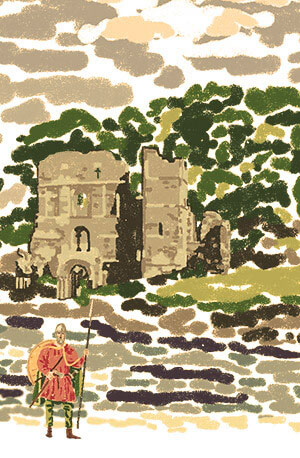
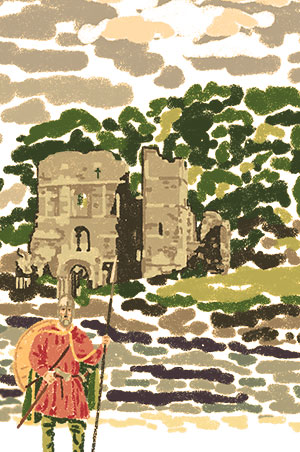
Aamazon books feedback

diff --git a/preview/Amazon_Book_2025/History/300x600/main.js b/preview/Amazon_Book_2025/History/300x600/main.js
@@ -35,7 +35,7 @@ function getAnimation(){
     rolloverTL.to("#spaceWrapper", 0.5, {clipPath:"polygon(-89% 0%, 160% 0%, 33% 75%)", repeat:1, yoyo:true, ease:Sine.easeInOut}, "start");
     rolloverTL.to("#vikingWrapper", 1, {x:5, y:2, repeat:1, yoyo:true, ease:Sine.easeInOut}, "start");
     rolloverTL.fromTo("#spear9", 2,{x:-100}, {x:300, rotation:50, ease:Sine.easeInOut}, "start");
-    rolloverTL.fromTo("#spear10", 3, {x:-300, y:10, rotation:-10}, {x:400, y:80, rotation:10, ease:Sine.easeInOut}, "start");
+    rolloverTL.fromTo("#spear10", 3, {x:-300, y:10}, {x:400, y:80, rotation:60, ease:Sine.easeInOut}, "start");
 
 
     masterTL = gsap.timeline({repeat:2});
@@ -54,8 +54,8 @@ function getAnimation(){
     masterTL.to("#castleFire2", 2,{rotation:5, repeat:3, yoyo:true, ease:Sine.easeInOut}, "start+=1.9");
     
     masterTL.from("#castleFire4", 0.7, {scale:0, ease:Sine.easeOut}, "start+=1");
-    masterTL.to("#castleFire4", 2,{scaleX:1.2, scaleY:0.8, repeat:3, yoyo:true, ease:Sine.easeInOut}, "start+=1.9");
-    masterTL.to("#castleFire4", 1.6,{rotation:20, repeat:4, yoyo:true, ease:Sine.easeInOut}, "start+=1.9");
+    masterTL.to("#castleFire4", 2,{scaleX:1.2, scaleY:0.8, repeat:3, yoyo:true, ease:Sine.easeInOut}, "start+=1.7");
+    masterTL.to("#castleFire4", 1.6,{rotation:20, repeat:3, yoyo:true, ease:Sine.easeInOut}, "start+=1.7");
 
     masterTL.from("#castleFire1", 1,{scale:0, ease:Sine.easeOut}, "start+=2");
     masterTL.to("#castleFire1", 0.625,{scaleX:0.9, scaleY:1.2, repeat:7, yoyo:true, ease:Sine.easeInOut}, "start+=3");
@@ -71,13 +71,13 @@ function getAnimation(){
 
     masterTL.fromTo("#spear1", 2,{x:-100}, {x:300, rotation:50, ease:Sine.easeInOut}, "start+=1");
     masterTL.fromTo("#spear2", 2,{x:-100, y:100}, {x:300, rotation:50, ease:Sine.easeInOut}, "start+=5");
-    masterTL.fromTo("#spear3", 2,{x:-100, y:50}, {x:300, rotation:50, ease:Sine.easeInOut}, "start+=6");
-    masterTL.fromTo("#spear4", 2,{x:300, y:50, scaleX:-1}, {x:-150, rotation:-50, ease:Sine.easeInOut}, "start+=2");
-    masterTL.fromTo("#spear5", 2,{x:300, y:10, scaleX:-1}, {x:-150, rotation:-50, ease:Sine.easeInOut}, "start+=7");
+    masterTL.fromTo("#spear3", 2,{x:-100, y:50}, {x:300, rotation:52, ease:Sine.easeInOut}, "start+=6");
+    masterTL.fromTo("#spear4", 2,{x:-100, y:40}, {x:300, rotation:45, ease:Sine.easeInOut}, "start+=2");
+    masterTL.fromTo("#spear5", 2,{x:-100, y:10}, {x:300, rotation:55, ease:Sine.easeInOut}, "start+=7");
     
-    masterTL.fromTo("#spear6", 3, {x:-300, y:10, rotation:-10}, {x:400, y:80, rotation:10, ease:Sine.easeInOut}, "start+=1");
-    masterTL.fromTo("#spear7", 3, {x:400, y:40, rotation:10, scaleX:-1}, {x:-300, y:100, ease:Sine.easeInOut}, "start+=3.7");
-    masterTL.fromTo("#spear8", 3, {x:-300, y:50, rotation:-30}, {x:400, y:0, rotation:10, ease:Sine.easeInOut}, "start+=7");
+    masterTL.fromTo("#spear6", 2, {x:-100, y:10}, {x:300, y:20, rotation:60, ease:Sine.easeInOut}, "start+=1.5");
+    masterTL.fromTo("#spear7", 2, {x:-100, y:40}, {x:300, y:40, rotation:80, ease:Sine.easeInOut}, "start+=3.7");
+    masterTL.fromTo("#spear8", 2, {x:-100, y:50}, {x:300, y:0, rotation:30, ease:Sine.easeInOut}, "start+=7");
     
     
     masterTL.to("#banner", 0.5, {}, 9.5);
@@ -92,10 +92,10 @@ function animateViking() {
 
     tl.add('start');
     tl.from("#vikingWrapper", 9, {x:100, ease:Power0.easeNone}, "start");
-    tl.from("#shield", 1.5, {x:-50, y:-20, yoyo:true, repeat:5, ease:Sine.easeInOut}, "start");
-    tl.from("#vikingWrapper", 1.5, {y:10, yoyo:true, repeat:5, ease:Sine.easeInOut}, "start");
+    tl.from("#shield", 1.8, {x:-50, y:-20, yoyo:true, repeat:4, ease:Sine.easeInOut}, "start");
+    tl.from("#vikingWrapper", 1.8, {y:10, yoyo:true, repeat:4, ease:Sine.easeInOut}, "start");
     
-    tl.to("#vikingFire", 1.5, {rotation:12, scaleX:1.2, scaleY:0.9, yoyo:true, repeat:5, ease:Sine.easeInOut}, "start");
+    tl.to("#vikingFire", 1.8, {rotation:12, scaleX:1.2, scaleY:0.9, yoyo:true, repeat:4, ease:Sine.easeInOut}, "start");
 
     return tl;
 }
@@ -104,7 +104,7 @@ function getMousePos() {
     document.querySelector("#mainExit").addEventListener("mousemove", function (e) {
         var xPos = e.clientX/40;
         var yPos = e.clientY/60;
-        gsap.to("#shield", 0.1, {y:yPos-20, x:xPos-50, ease:Sine.easeInOut});
+        gsap.to("#shield", 0.1, {y:yPos, x:xPos, ease:Sine.easeInOut});
         
     });
 }

diff --git a/preview/Amazon_Book_2025/Horror/300x600/main.js b/preview/Amazon_Book_2025/Horror/300x600/main.js
@@ -37,9 +37,9 @@ function getAnimation(){
     rolloverTL.to("#monsterWrapper", 1, {y:3, x:10, repeat:1, yoyo:true, ease:Power1.easeInOut}, "start");
     rolloverTL.to("#arm1", 1, {rotation:-20, yoyo:true, repeat:1, ease:Power2.easeInOut}, "start");
     rolloverTL.to("#arm2", 1, {rotation:40, yoyo:true, repeat:1, ease:Sine.easeInOut}, "start");
-    rolloverTL.to("#skeleton", 0.75, {rotation:-10, yoyo:true, repeat:1, ease:Power1.easeInOut}, "start");
-    rolloverTL.to("#gremlin", 0.9, {x:-10, yoyo:true, repeat:1, ease:"bac1.inOut(1.4)"}, "start");
-    rolloverTL.to("#gremlin", 0.18, {y:-2, repeat:9, yoyo:true, ease:Sine.easeInOut}, "start");
+    rolloverTL.to("#skeleton", 0.75, {rotation:-5, yoyo:true, repeat:1, ease:Power1.easeInOut}, "start");
+    rolloverTL.to("#gremlin", 0.9, {x:-5, yoyo:true, repeat:1, ease:"bac1.inOut(1.4)"}, "start");
+    // rolloverTL.to("#gremlin", 0.18, {y:-2, repeat:9, yoyo:true, ease:Sine.easeInOut}, "start");
 
 
     masterTL = gsap.timeline({repeat:2});
@@ -51,12 +51,12 @@ function getAnimation(){
     masterTL.from("#copy", 0.5, {opacity:0, ease:Sine.easeOut}, "start");
     masterTL.from("#spaceWrapper", 2, {clipPath:"polygon(30% 0%, 30% 0%, 33% 75%)", ease:Sine.easeInOut}, "start+=0.5");
     masterTL.from("#gremlin", 0.75, {y:100, ease:"back.out(1.4)"}, "start+=1");
-    masterTL.to("#gremlin", 1, {x:20, ease:"bac1.inOut(1.4)"}, "start+=1.75");
-    masterTL.to("#gremlin", 0.16666666666, {y:-2, repeat:5, yoyo:true, ease:Sine.easeInOut}, "start+=1.75");
-    masterTL.to("#gremlin", 2, {x:-30, ease:"back.inOut(1.4)"}, "start+=2.75");
-    masterTL.to("#gremlin", 0.16666666666, {y:-1, repeat:11, yoyo:true, ease:Sine.easeInOut}, "start+=2.75");
-    masterTL.to("#gremlin", 1, {x:0, ease:"back.inOut(1.4)"}, "start+=4.75");
-    masterTL.to("#gremlin", 0.16666666666, {y:-1, repeat:5, yoyo:true, ease:Sine.easeInOut}, "start+=4.75");
+    masterTL.to("#gremlin", 2, {x:10, ease:"bac1.inOut(1.4)"}, "start+=1.75");
+    // masterTL.to("#gremlin", 0.16666666666, {y:-2, repeat:5, yoyo:true, ease:Sine.easeInOut}, "start+=1.75");
+    masterTL.to("#gremlin", 4, {x:-10, y:5, ease:"back.inOut(1.4)"}, "start+=3.75");
+    // masterTL.to("#gremlin", 0.16666666666, {y:-1, repeat:11, yoyo:true, ease:Sine.easeInOut}, "start+=2.75");
+    masterTL.to("#gremlin", 2, {x:0, y:0, ease:"back.inOut(1.4)"}, "start+=7.75");
+    // masterTL.to("#gremlin", 0.16666666666, {y:-1, repeat:5, yoyo:true, ease:Sine.easeInOut}, "start+=4.75");
     masterTL.add(skeletonTL, "start+=2");
     
     masterTL.add(monsterTL, "start+=2.5");
@@ -70,7 +70,7 @@ function animateSkeleton() {
     var tl = gsap.timeline({repeat:1});
 
     tl.add('start');
-    tl.to("#skeleton", 1.9, {rotation:-20, ease:Power1.easeInOut}, "start");
+    tl.to("#skeleton", 1.9, {rotation:-10, ease:Power1.easeInOut}, "start");
     tl.to("#skeleton", 1.9, {rotation:0, ease:Power1.easeInOut}, "start+=1.9");
 
     return tl;

diff --git a/preview/Amazon_Book_2025/Crime/300x600/main.js b/preview/Amazon_Book_2025/Crime/300x600/main.js
@@ -44,8 +44,6 @@ function getAnimation(){
     masterTL.add("start");
     masterTL.from("#copy", 0.5, {opacity:0, ease:Sine.easeOut}, "start");
     masterTL.from("#spaceWrapper", 2, {clipPath:"polygon(30% 0%, 30% 0%, 31% 75%)", ease:Sine.easeInOut}, "start+=0.5");
-    // masterTL.from("#detective", 0.5, {opacity:0, ease:Sine.easeOut}, "start+=1");
-    // masterTL.from("#detective", 1.5, {scale:0.5, x:-60, ease:Sine.easeOut}, "start+=1");
     
     masterTL.add("heli", "-=1.3");
     masterTL.from("#heliRotor", 0.5, {rotation:380, repeat:13, ease:Power0.easeNone}, "heli");
@@ -56,14 +54,16 @@ function getAnimation(){
     masterTL.to("#heliLight", 2, {rotation:70, ease:Sine.easeInOut}, "heli+=3");
     masterTL.from("#runners", 2, {opacity:0, x:30, ease:Sine.easeInOut}, "heli+=3");
     masterTL.to("#heliLight", 2.6, {rotation:0, ease:Power2.easeInOut}, "heli+=5");
+
+    masterTL.add("money", "-=6");
+    masterTL.to("#vault", 1.5, {opacity:0, ease:Sine.easeInOut}, "money");
+    masterTL.from("#money1", 3, {scale:0, x:10, ease:Power2.easeOut}, "money");
+    masterTL.from("#money2", 2.5, {scale:0, ease:Sine.easeOut}, "money");
     
     masterTL.add("leftCorner", "-=3");
     masterTL.from("#leftCorner", 1, {opacity:0, x:-30, ease:Sine.easeInOut}, "leftCorner");
     masterTL.from("#detective2", 1, {opacity:0, x:-30, ease:Sine.easeInOut}, "leftCorner+=0.3");
-    
-    masterTL.add("money", "-=2");
-    masterTL.from("#money1", 3, {scale:0, x:10, ease:Power2.easeOut}, "money");
-    masterTL.from("#money2", 2.5, {scale:0, ease:Sine.easeOut}, "money");
+
     
     masterTL.to("#banner", 0.5, {}, "start+=9.3");
 

diff --git a/preview/Amazon_Book_2025/History/300x600/index.html b/preview/Amazon_Book_2025/History/300x600/index.html
@@ -31,12 +31,12 @@
                 <img id="spear3" src="spear_1.png">
                 <img id="spear4" src="spear_1.png">
                 <img id="spear5" src="spear_1.png">
-                <img id="spear6" src="spear_2.png">
-                <img id="spear7" src="spear_2.png">
-                <img id="spear8" src="spear_2.png">
+                <img id="spear6" src="spear_1.png">
+                <img id="spear7" src="spear_1.png">
+                <img id="spear8" src="spear_1.png">
                 
                 <img id="spear9" src="spear_1.png">
-                <img id="spear10" src="spear_2.png">
+                <img id="spear10" src="spear_1.png">
                 <div id="vikingWrapper">
                     <img id="viking" src="viking.png">
                     <img id="vikingFire" src="viking_fire.png">

diff --git a/preview/Amazon_Book_2025/Fantasy/300x600_v2/main.js b/preview/Amazon_Book_2025/Fantasy/300x600_v2/main.js
@@ -53,7 +53,10 @@ function getAnimation(){
     }}, 0)
     masterTL.add("start");
     masterTL.from("#spaceWrapper", 2, {clipPath:"polygon(31% -7%, 31% 0%, 31% 79%)", ease:Sine.easeInOut}, "start+=0.5");
-    masterTL.from("#copy", 1, {clipPath:"polygon(50% 0%, 50% 0%, 50% 100%, 50% 100%)", ease:Sine.easeInOut}, "start+=1");
+    masterTL.from("#copy", 1, {clipPath:"polygon(50% 0%, 50% 0%, 50% 100%, 50% 100%)", ease:Sine.easeInOut, onComplete:function(){
+        gsap.set("#copy", {opacity:0});
+        gsap.set("#copy2", {opacity:1});
+    }}, "start+=1");
     
     masterTL.add(druidTL, "start+=2");
     masterTL.add(wizardTL, "start+=1.5");

diff --git a/preview/Amazon_Book_2025/Crime/300x600/style.css b/preview/Amazon_Book_2025/Crime/300x600/style.css
@@ -62,6 +62,7 @@ img, div, object{
     top:0;
 }
 
+#vault,
 #money1,
 #money2,
 #leftCorner,
@@ -119,10 +120,6 @@ img, div, object{
     transform-origin: 245px 170px;
 }
 
-#detective{
-    transform-origin: 50% 440px;
-}
-
 #heliWrapper{
     width: 100%;
     height: 100%;
@@ -136,4 +133,9 @@ img, div, object{
 #money1,
 #money2{
     transform-origin: 173px 250px;
+}
+
+#vault{
+    top: 150px;
+    transform-origin: 0% 50%;
 }

diff --git a/preview/Amazon_Book_2025/Crime/300x600/index.html b/preview/Amazon_Book_2025/Crime/300x600/index.html
@@ -21,6 +21,7 @@
         <div id="spaceWrapper">
             <div id="reset">
                 <img id="bookBg" src="book_bg.jpg">
+                <img id="vault" src="vault.jpg">
                 <img id="leftCorner" src="left_corner.png">
                 <img id="detective2" src="detective2.png">
                 <img id="runners" src="runners.png">

diff --git a/preview/Amazon_Book_2025/Fantasy/300x600_v2/style.css b/preview/Amazon_Book_2025/Fantasy/300x600_v2/style.css
@@ -62,6 +62,7 @@ img, div, object{
     top:0;
 }
 
+#copy2,
 #creatureTail
 #creatureWingR,
 #creatureWingL,
@@ -80,6 +81,10 @@ img, div, object{
 #copy{
     width: 300px;
     clip-path: polygon(0 0, 100% 0%, 100% 100%, 0% 100%);
+}
+
+#copy2{
+    opacity: 0;
 }
 
 #spaceWrapper{

diff --git a/preview/Amazon_Book_2025/Fantasy/300x600_v2/index.html b/preview/Amazon_Book_2025/Fantasy/300x600_v2/index.html
@@ -44,6 +44,8 @@
 
         <img id="person" src="person.png">
         <img id="copy" src="copy.png">
+        <img id="copy2" src="copy.png">
+        
         <img id="logo" src="logo.png">
 
         <div id="border"></div>
